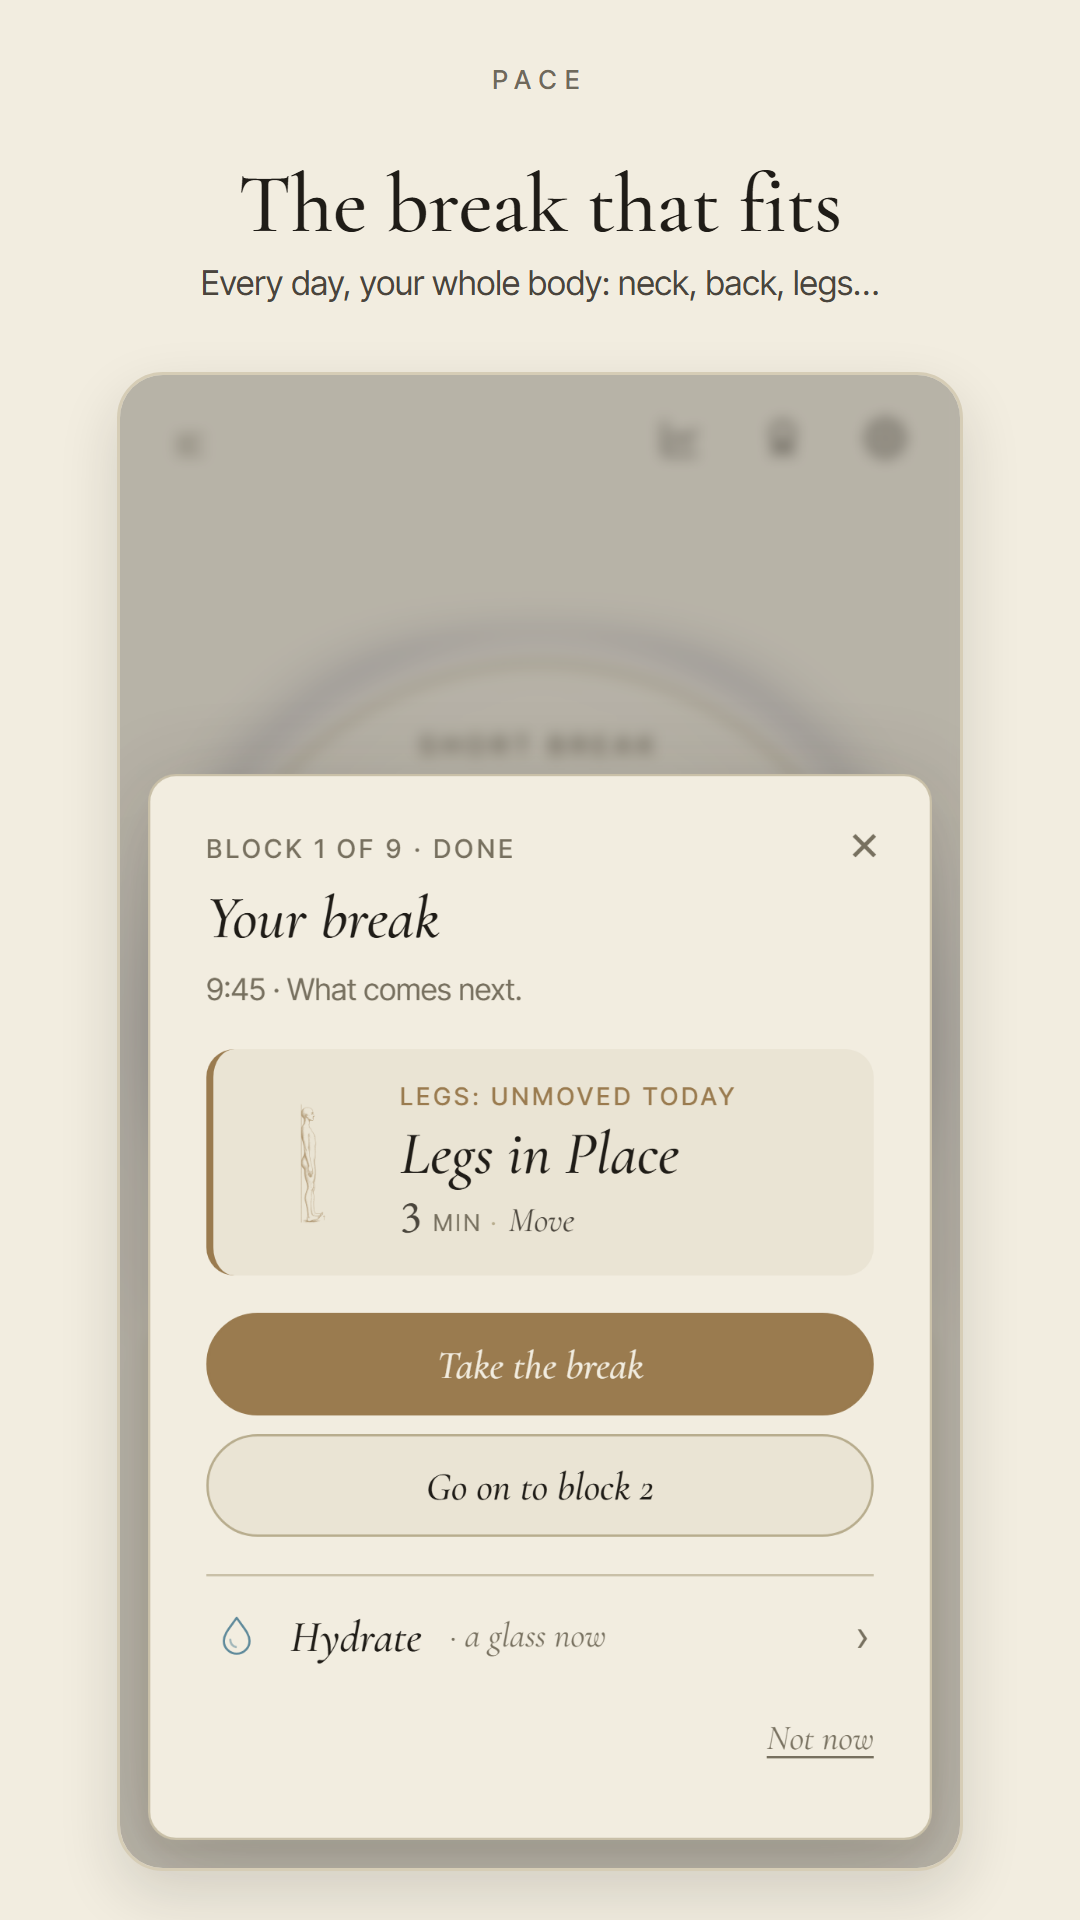
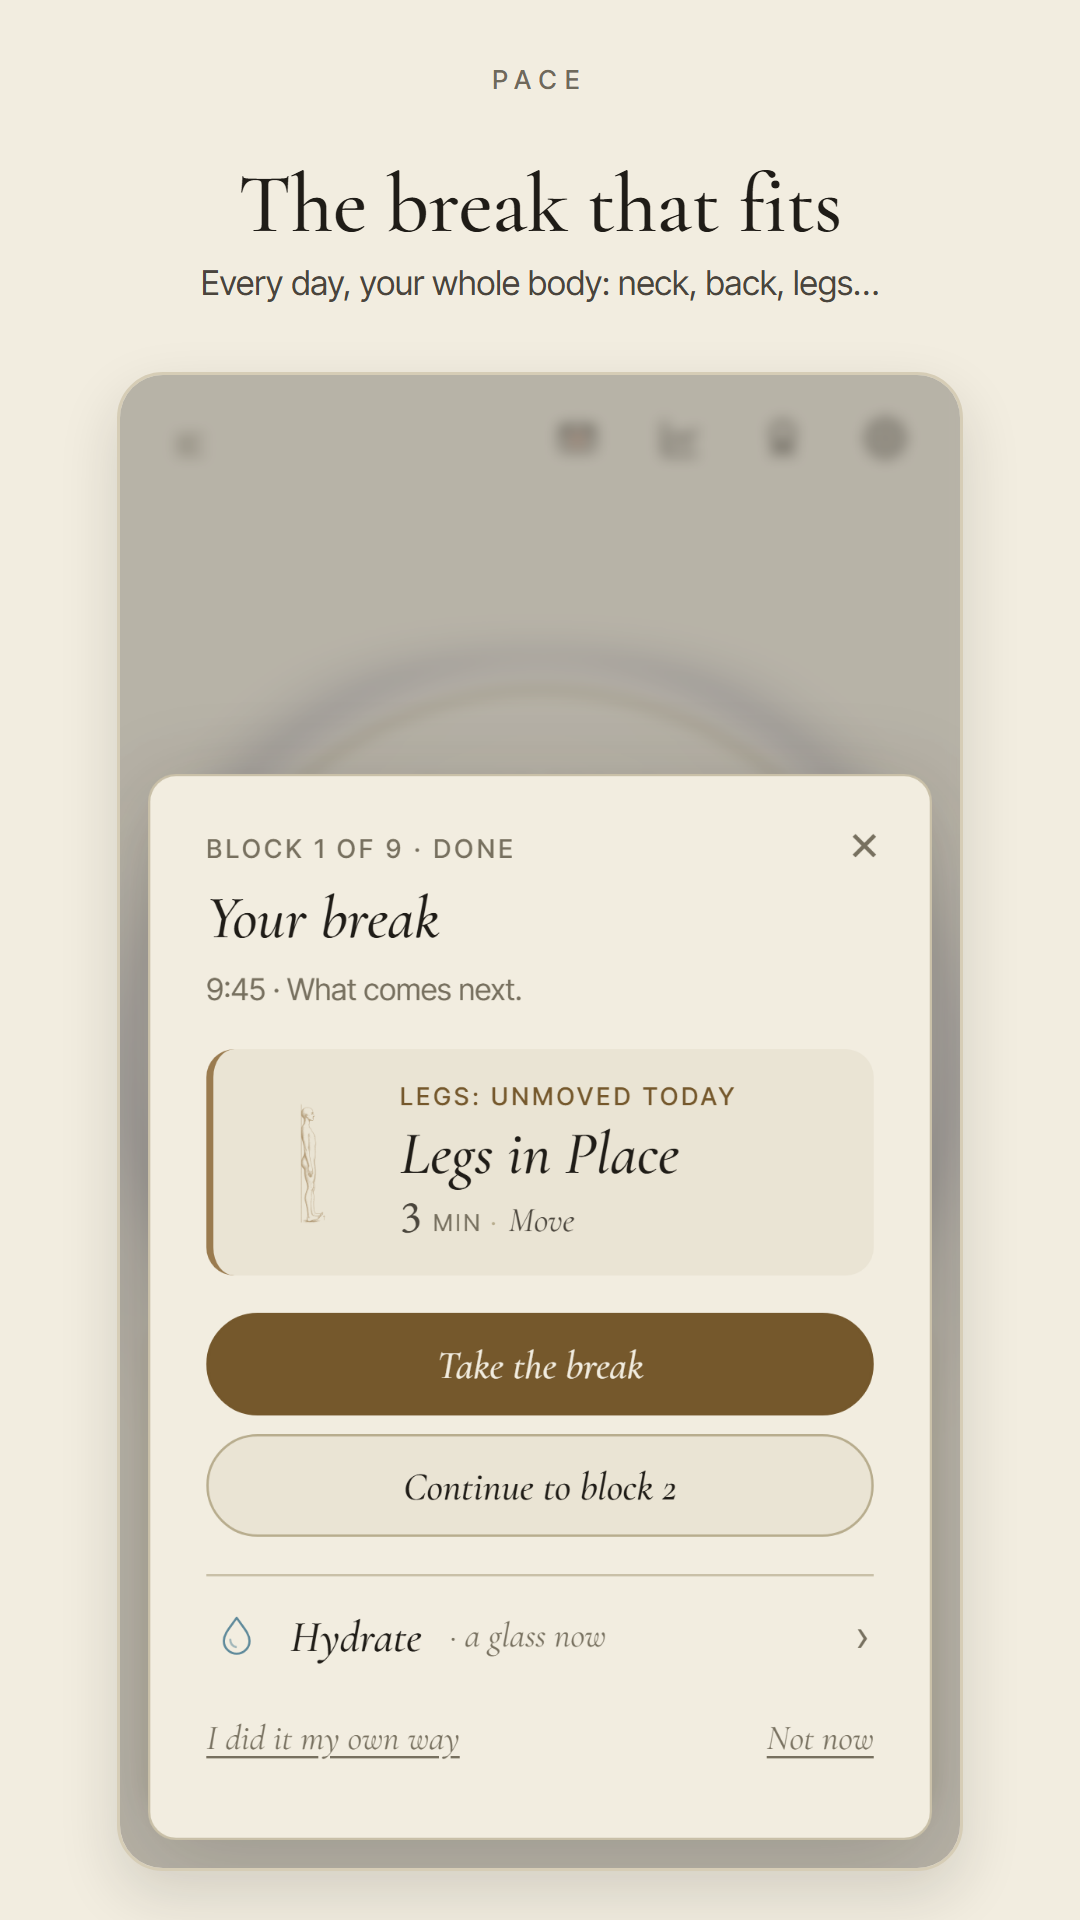
docs: las seis capturas de Play rehechas sobre la 0.205.0, la lista de lo pendiente solo con lo que falta, y el relevo
El guion de las capturas busca los botones sin mirar mayúsculas, porque en inglés el botón pasó a
«Start Focus» y la del Foco en oscuro no salía. Las imágenes de /beta esperan el visto bueno de Ez:
subirlas cambia la web.

diff --git a/docs/traspaso/pendiente/pendiente.html b/docs/traspaso/pendiente/pendiente.html
@@ -2,7 +2,7 @@
 <meta name="claude:viewport-fit-sides" content="cover">
 <link rel="stylesheet" href="https://fonts.googleapis.com/css2?family=Cormorant+Garamond:ital,wght@1,500&family=Inter+Tight:wght@400;500;600&display=swap">
 <style>
-/* Una columna de lectura con cuatro tramos en orden: solo lo pendiente. Cada paso dice quién lo hace con una
+/* Una columna de lectura con tres tramos en orden: solo lo pendiente. Cada paso dice quién lo hace con una
    etiqueta (yo, tú, espera tu alta) y el único paso en marcha va apartado. Paleta y letras de PACE (DESIGN_SYSTEM.md). */
 :root {
   --paper: #F2EDE0; --paper-2: #EAE4D4; --ink: #1F1C17; --ink-2: #4A453C; --ink-3: #6F695B;
@@ -62,40 +62,28 @@ summary:focus-visible, a:focus-visible { outline: 2px solid var(--focus); outlin
 
 <main class="hoja">
   <header>
-    <div class="eyebrow">PACE · versión 0.203.0, en la web · 12 de noviembre, 20:20</div>
+    <div class="eyebrow">PACE · versión 0.205.0, en la web, en revisión en Play y en TestFlight · 15 de noviembre</div>
     <h1>Lo que queda hasta v1</h1>
-    <p>Solo lo pendiente, en orden. Lo hecho no sale aquí; está en <a href="https://claude.ai/artifact/EcLj6io4wM9pGjtQ5wd1CT">tu hoja de pasos</a>. <b>El código ya no marca la fecha</b>: la
-      marcan doce testers durante 14 días seguidos y tus altas para cobrar. Desde que la prueba con testers empiece a contar,
-      v1 puede salir en unas tres semanas.</p>
+    <p>Solo lo pendiente, en orden. Lo hecho no sale aquí; está en <a href="https://claude.ai/artifact/5iWBfHE7kD3dUVocdskmb6">tu hoja de pasos</a>. <b>La versión de prueba
+      ya está hecha y subida</b>: la 0.205.0. Ahora la fecha la marcan doce testers durante 14 días seguidos y tus altas para
+      cobrar. Desde que la prueba con testers empiece a contar, v1 puede salir en unas tres semanas.</p>
     <div class="leyenda"><span class="quien yo">Yo</span> lo hago yo <span class="quien tu">Tú</span> te toca a ti
       <span class="quien alta">Tu alta</span> espera una cuenta a tu nombre</div>
   </header>
 
   <section>
-    <h2>1 · La versión de prueba sólida</h2>
-    <p class="nota">Lo que decidiste el 11 de noviembre: a Play y al iPhone va una versión buena, no la 0.191.1.</p>
+    <h2>1 · La prueba con testers</h2>
     <ol class="pasos">
-      <li class="paso ahora"><span class="n">4</span><span class="t">El sonido en Android <span class="quien yo">Yo</span></span>
-        <span class="c">Con tu «A y A»: que en Android el fin del Foco suene con la campana de PACE y respete el sonido
-          apagado (se monta), y ofrecer una vez que el aviso llegue a su hora al empezar el primer Foco (te lo pinto antes). Te lo
-          enseño en <a href="https://claude.ai/artifact/HeMyYYPyDuopL7oYYu5kpS">su página</a> antes de juntarlo.</span></li>
-      <li class="paso"><span class="n">5</span><span class="t">Un sí a cuatro arreglos pequeños <span class="quien tu">Tú</span></span>
-        <span class="c">Importar dice de qué día es la copia, avisa si es de una versión más nueva y la encuentra en Drive o
-          WhatsApp; el lector de pantalla lee el precio en Ajustes; y «Audio» en la parte inglesa
-          (<a href="https://claude.ai/artifact/C2uFSMM8eWhcRxpXLGWkAx">la auditoría</a>, filas S3 y S4).</span></li>
-      <li class="paso"><span class="n">6</span><span class="t">Un «júntalo» y una revisión de ChatGPT <span class="quien tu">Tú</span></span>
-        <span class="c">El arreglo de los dos cobros de la mensual a la vez, hecho en su rama. Y pasar a ChatGPT la revisión del
-          cobro y de lo legal: el texto para copiar está en tu hoja de pasos.</span></li>
-    </ol>
-    <p class="hito">Con eso, la versión de prueba sólida, con GitHub en verde.</p>
-  </section>
-
-  <section>
-    <h2>2 · La prueba con testers</h2>
-    <ol class="pasos" start="7">
-      <li class="paso"><span class="n">7</span><span class="t">Subirla a Play y al iPhone <span class="quien tu">Tú, conmigo</span></span>
-        <span class="c">A la prueba cerrada de Play y a TestFlight, una pantalla por mensaje. De paso, el párrafo «A tu ritmo» en
-          la ficha de Play, y las seis capturas rehechas una sola vez, con la jornada dentro.</span></li>
+      <li class="paso ahora"><span class="n">1</span><span class="t">Que la 0.205.0 llegue a los testers <span class="quien tu">Tú, conmigo</span></span>
+        <span class="c">
+          <ul>
+            <li><b>Play:</b> la prueba cerrada está en revisión. Cuando Google la apruebe, pruébala en tu Android (los pasos, en
+              <a href="https://claude.ai/artifact/R1mmsxTzYjmFQGynxJYXxP">su página</a>) y manda el mensaje de WhatsApp a los testers.</li>
+            <li><b>iPhone:</b> ya está en TestFlight. Dásela al grupo «Testers iPhone» con su «Qué probar», y activa su enlace
+              público para que lo ponga en pacegrass.app/beta.</li>
+            <li><b>La ficha de Play:</b> el párrafo «A tu ritmo» y las seis capturas nuevas, ya hechas con la jornada dentro.</li>
+            <li><b>La declaración de operador</b> en Play Console, mirando antes qué dirección enseña.</li>
+          </ul></span></li>
       <li class="paso"><span class="n">8</span><span class="t">Doce testers durante 14 días <span class="quien tu">Tú</span></span>
         <span class="c">Tienes 5 o 6. Todos a pacegrass.app/beta, con el texto de LinkedIn ya escrito, y a cada uno su código de
           PACE completo. Al cumplirse los 14 días se pide a Google el acceso a producción.</span></li>
@@ -110,19 +98,24 @@ summary:focus-visible, a:focus-visible { outline: 2px solid var(--focus); outlin
             <li>que con una wifi mala PACE no se quede en blanco al abrir, y que Safari no borre lo guardado;</li>
             <li>/beta sin «sin rachas», textos de la pausa que no se contradigan, el inglés que falta y las fotos al instalar;</li>
             <li>los botones del constructor de rutinas más grandes para el dedo (te lo pinto antes);</li>
-            <li>un aviso opcional a la hora en que empieza tu jornada, apagado hasta que lo enciendas (te lo pinto antes);</li>
-            <li>«¿Te ayudó?» menos veces, y el «No» con su porqué de un toque (te lo pinto antes);</li>
-            <li>«Repetir la última pausa», de un toque (te lo pinto antes).</li>
-          </ul></span></li>
+            <li>un aviso opcional a la hora en que empieza tu jornada, apagado hasta que lo enciendas;</li>
+            <li>«¿Te ayudó?» menos veces, y el «No» con su porqué de un toque;</li>
+            <li>«Repetir la última pausa», de un toque.</li>
+          </ul>
+          Las maquetas de las tres últimas ya se están pintando, en una página para que elijas.</span></li>
       <li class="paso"><span class="n">10</span><span class="t">Que lo mire un fisioterapeuta <span class="quien tu">Tú</span></span>
         <span class="c">Fondos en silla y los ejercicios aparcados: es la revisión que el contenido pide antes de v1.</span></li>
     </ol>
   </section>
 
   <section>
-    <h2>3 · Cobrar</h2>
+    <h2>2 · Cobrar</h2>
     <p class="nota">Cada alta tuya desbloquea un trozo de código mío. Caben dentro de los 14 días.</p>
     <ol class="pasos" start="11">
+      <li class="paso"><span class="n">6</span><span class="t">Un «júntalo» y una revisión de ChatGPT <span class="quien tu">Tú</span></span>
+        <span class="c">El arreglo de los dos cobros de la mensual a la vez, hecho en su rama. Y pasar a ChatGPT la revisión del
+          cobro y de lo legal: el texto para copiar está en tu hoja de pasos. Solo toca a la venta en la web, que antes de v1
+          vende solo el de por vida.</span></li>
       <li class="paso"><span class="n">11</span><span class="t">El perfil de pagos de Play <span class="quien alta">Tu alta</span></span>
         <span class="c">Con él monto la compra en Android, restaurarla al cambiar de móvil y los códigos de tus testers.</span></li>
       <li class="paso"><span class="n">12</span><span class="t">El acuerdo de apps de pago de Apple <span class="quien alta">Tu alta</span></span>
@@ -144,7 +137,7 @@ summary:focus-visible, a:focus-visible { outline: 2px solid var(--focus); outlin
   </section>
 
   <section>
-    <h2>4 · El día de v1</h2>
+    <h2>3 · El día de v1</h2>
     <ol class="pasos" start="18">
       <li class="paso"><span class="n">18</span><span class="t">PACE se puede comprar <span class="quien yo">Yo</span> <span class="quien tu">Tú</span></span>
         <span class="c">En la web, en Android y en el iPhone: 2,99 € al mes con 7 días de prueba, o 19,99 € de por vida. Se cierra

diff --git a/scripts/play/capturas.js b/scripts/play/capturas.js
@@ -37,7 +37,7 @@ const LOGROS = ['first.step', 'first.breath', 'first.stretch', 'first.sip', 'fir
   'first.day', 'first.plan', 'explore.box', 'explore.coherent', 'explore.physiological', 'explore.neck', 'explore.desk',
   'explore.hips', 'explore.shoulders'];
 
-const re = (es, en) => new RegExp('^(' + es + '|' + en + ')');
+const re = (es, en) => new RegExp('^(' + es + '|' + en + ')', 'i');   // sin mayúsculas: en inglés «Start Focus» cambió de letra
 const B = {
   foco: re('Empezar foco', 'Start focus'),
   respira: re('Respira', 'Breathe'),

diff --git a/docs/traspaso/LEEME.md b/docs/traspaso/LEEME.md
@@ -11,6 +11,7 @@ Se actualiza en cada hito (regla en `CLAUDE.md`). Última actualización: 14 de 
 - **Página «Cuatro arreglos pequeños»**, al día con la foto de la ventana montada: 5iWBf Lweow3RtPa9wCsenLZNJ51 (fuente con `fotos/` en `docs/proposals/arreglos-s3-s4-13nov/` de la rama). En EcLj6 no existe: publicarla allí desde la rama y apuntar el par en `hoja-ids-cuentas.js`.
 - **Ez (literal): «Júntalo».** Unión 99f43235, `verify`, bump a 0.205.0 y build. Suite entera sobre el `index.html` que se sube (puerto 8805, 43 min): **1607 en verde, 2 saltadas a propósito y 2 rojas** que pasan solas 20 de 20 (`contraste-modulos.spec.js:150`, Hidrátate, que ya cayó así en la 0.204.0, y `runner-espera.spec.js:184`). Commit «v0.205.0: bump, build y lo que junta» (45a85c7c) y push. **GitHub, en verde entero:** CI 43590152169, iOS 43590152257 y Android 43591217429. **El AAB, bajado a `subidas-playPACE-0.205.0.aab`** (15,7 MB, con `campana_aviso.wav` y `pausa_aviso.wav` dentro). Sin probar en un móvil: que Android enseñe la copia de WhatsApp o Drive.
 - **Ez (14 nov.): subir la 0.205.0 a Play para los testers**, primero a la prueba interna (Ez la prueba en su Android con los pasos de las páginas R1mmsxTzYjmFQGynxJYXxP y Lweow3RtPa9wCsenLZNJ51) y de ahí a la cerrada, con el párrafo «A tu ritmo» de `ficha.md`; y la del iPhone a TestFlight. Con su «Sí, dale», la coordinadora baja el AAB de GitHub a `subidas-play\` cuando Android lo compile. El mensaje de WhatsApp para los testers, en `docs/launch/google-play/mensaje-testers-whatsapp.md`: se manda con la versión ya en la cerrada. Guiarle en Play Console, mejor desde la cuenta con semana.
+- **15 nov. (5iWBf, con la semana repuesta al 0 %):** la 0.205.0, en revisión en la prueba cerrada de Play (Ez la subió con las notas de `SUBIDAS.md`; Play avisó de que falta el archivo de desofuscación, normal sin R8, y pidió la declaración de operador: recomendado «operador», mirando antes qué dirección enseña) y subida a TestFlight (ejecución 43699696086, «Upload succeeded»; falta darla al grupo «Testers iPhone» con el «Qué probar» de `SUBIDAS.md` y activar el enlace público para /beta). Las seis capturas de Play, rehechas en es y en sobre la 0.205.0; las de `beta/` en claro y oscuro, rehechas y **sin subir hasta el visto bueno de Ez** (cambian la web). La lista corta, republicada en 5iWBf (UkETeVK2Ee97N8kSvupwC8) solo con lo pendiente; la copia del repo lleva ahora los ids de 5iWBf (para EcLj6, por el guion con `--a=EcLj6`). **En marcha:** la sesión «maquetas-uso» (`local_d703c73f-7fd3-450a-b749-4f0dfc406a60`, Opus, rama con `maquetas-uso-15nov`), con las maquetas de las tres mejoras de uso diario en una página para Ez.
 - **Después, en la lista corta:** el paso 6, el «júntalo» de `claude/guardar-atomico-166e3f` (cobro mensual) y pasar a ChatGPT la revisión del cobro y lo legal.
 - **Trampa de hoy:** `$(sed …)` con una lista de archivos que acaba en espacio mete «tests/» y lanza la suite entera; pasar los archivos uno a uno.
 - **Uso en 5iWBf a las 10:15:** 5 h al 7 % (se reponen a las 15:00), semana al 96 % (se repone el lunes 16 a las 18:00). Ez puso el tope de la semana en el 98 %.

diff --git a/docs/launch/google-play/SUBIDAS.md b/docs/launch/google-play/SUBIDAS.md
@@ -142,6 +142,8 @@ Tell me what breaks or what you would miss: take a screenshot of PACE and the iP
 
 ### Capturas de la ficha: cuáles se han quedado viejas
 
+**Rehechas las seis el 15 nov. 2026 sobre la 0.205.0**, en español y en inglés, con `scripts/play/capturas.js` (ahora busca los botones sin mirar mayúsculas: en inglés el botón es «Start Focus»), y con ellas las de /beta y la landing en claro (`beta/*.webp`, desde `capturas/`) y en oscuro (`--beta-oscuro`). Lo de abajo es la medida del 6 nov.
+
 Medido el 6 nov. 2026: se rehicieron las seis con `scripts/play/capturas.js` sobre la 0.190.0 (en una carpeta aparte) y se
 compararon píxel a píxel con las de `capturas-sin-marco/`. Las de `capturas/` son la misma pantalla con su título encima, así
 que valen lo mismo. Español e inglés van juntos.
